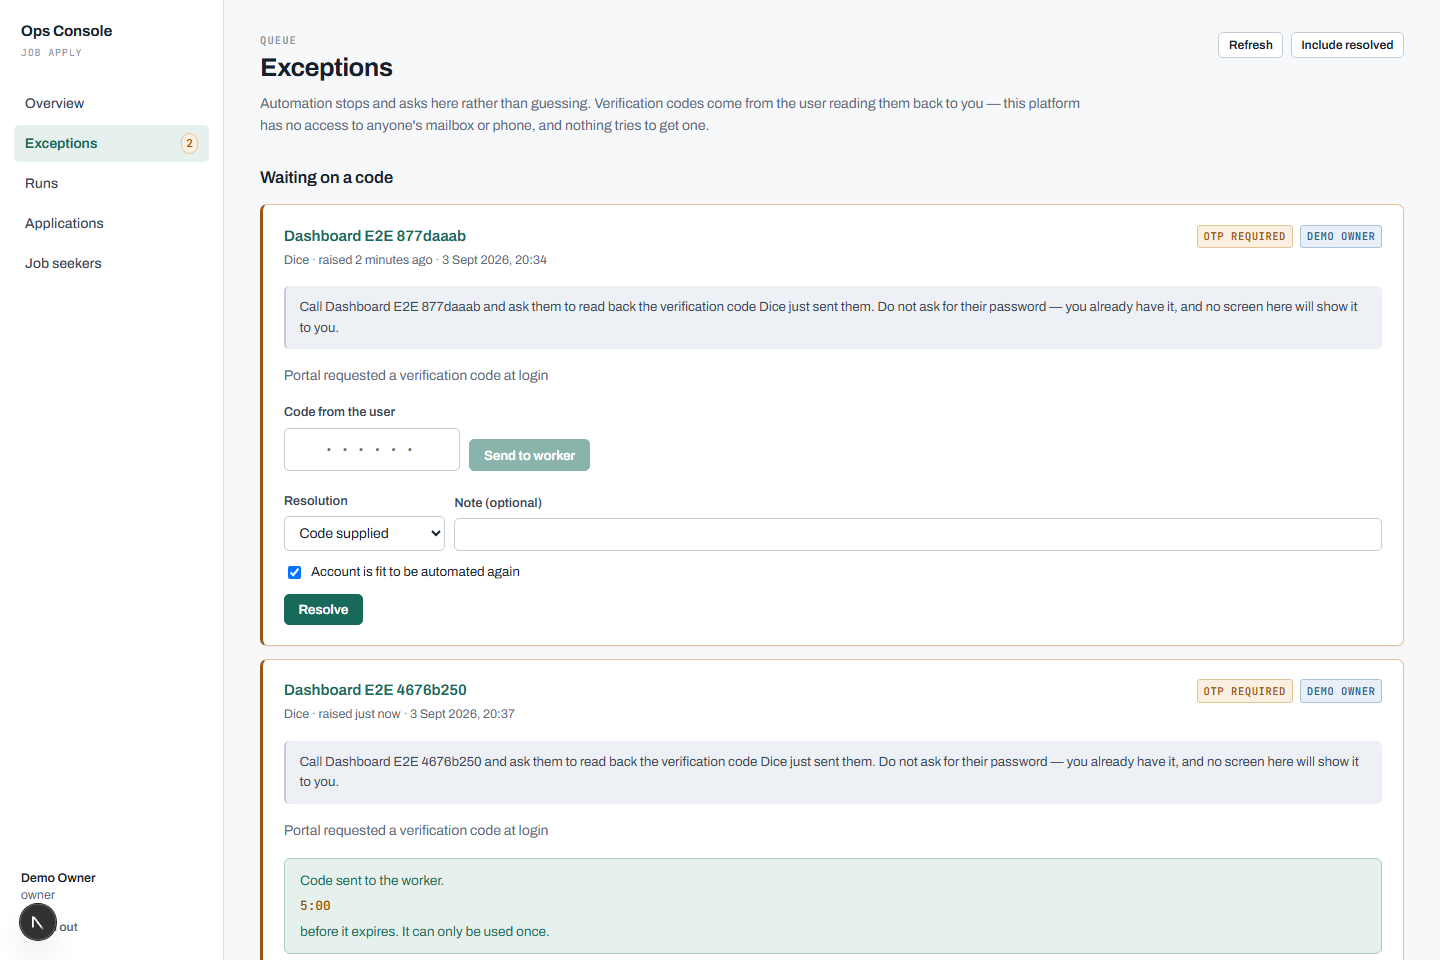
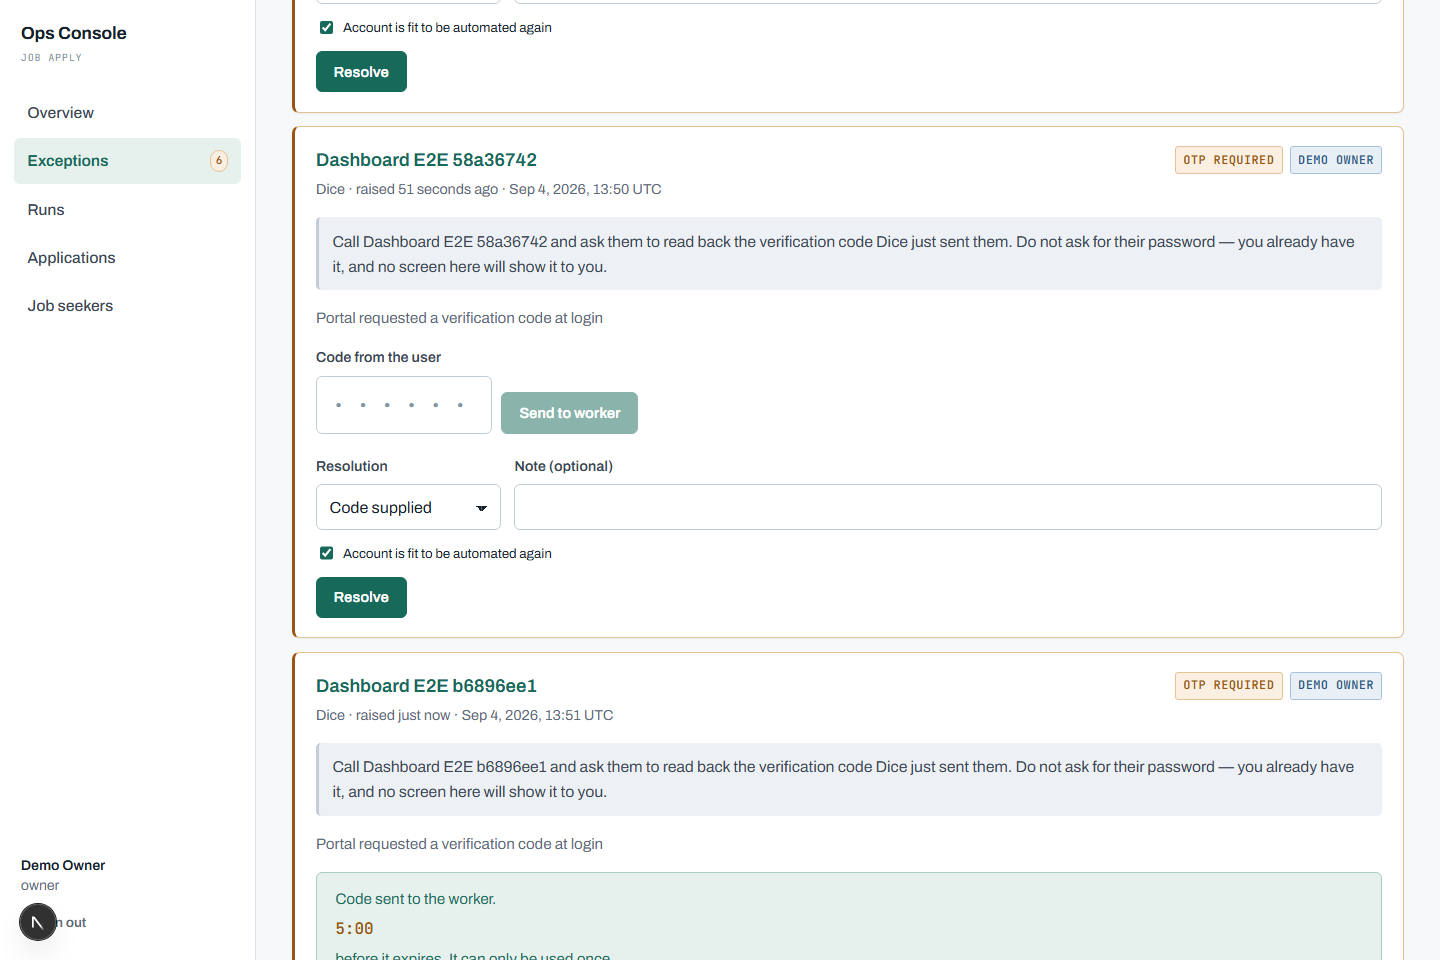
Fix two resume-parser bugs that misread years of experience
Both fed the match score, and both erred in ways that would reject jobs a
candidate is qualified for.

The explicit-claim pattern required the literal words "years of experience", so
"9 years building production APIs" — an ordinary way to open a summary — returned
null and fell through to the date-span fallback. Replaced with an ordered set of
patterns tried by confidence, so phrasings resumes actually use are read, while a
per-skill figure like "3 years of React" still cannot be mistaken for career
length. The ordering is the point: the first tier that matches wins, rather than
scanning for any number that happens to sit near the word "years".

The date-span fallback ignored open-ended ranges. "Acme 2021-present / Globex
2018-2021" spanned only the written years and reported 3 for an 8-year career —
the single most common shape a resume takes. It now recognises "present",
"current", "now" and "to date" and runs the span to today.

Three regression checks pin both, covering six real phrasings, an open-ended range
with no explicit claim anywhere, and the per-skill trap.

Also fixes the cross-service suite's resume fixture, which was a single line and
therefore below the matcher's 200-character floor — it scored every posting zero,
so the suite passed its earlier steps while proving nothing about matching.

Verified: API 13/13 smoke + 24/24 e2e, worker 16/16, dashboard 12/12, intake UI
11/11, cross-service 9/9, matcher 9/9.

diff --git a/scripts/smoke.ts b/scripts/smoke.ts
@@ -258,6 +258,91 @@ check('the worker copy of the matcher has not drifted from the API copy', () => 
   );
 });
 
+
+/**
+ * Years of experience feeds the match score, and both directions of error cost something:
+ * understating drops a strong candidate below the threshold for jobs they are qualified for,
+ * overstating pushes them past "5+ years required" bars they do not meet. These pin the two
+ * shapes that were previously wrong.
+ */
+check('resume parser reads experience from the phrasings resumes actually use', async () => {
+  const { parseResume } = await import('../src/services/resume-parser');
+
+  const cases: { label: string; text: string; expect: number }[] = [
+    { label: 'classic phrasing', text: 'Senior Engineer with 8 years of experience building APIs.', expect: 8 },
+    { label: 'no "of experience"', text: 'Senior Engineer. 9 years building production APIs at scale.', expect: 9 },
+    { label: 'plus and yrs', text: 'Backend engineer, 7+ yrs of professional experience.', expect: 7 },
+    { label: 'labelled field', text: 'Total experience: 11 years across payments and platform teams.', expect: 11 },
+    { label: 'over N years', text: 'Over 6 years working on distributed systems in production.', expect: 6 },
+    { label: 'as a role', text: '12 years as a backend engineer across fintech and retail.', expect: 12 },
+  ];
+
+  for (const c of cases) {
+    const file = path.join(os.tmpdir(), `smoke-years-${Date.now()}-${Math.random()}.txt`);
+    fs.writeFileSync(file, c.text);
+    try {
+      const parsed = await parseResume(file, 'text/plain', []);
+      assert.equal(parsed.yearsExperience, c.expect, `${c.label}: "${c.text}"`);
+    } finally {
+      fs.unlinkSync(file);
+    }
+  }
+});
+
+check('a resume ending in "present" reports career length, not the last closed job', async () => {
+  const { parseResume } = await import('../src/services/resume-parser');
+  const thisYear = new Date().getFullYear();
+  const startedIn = thisYear - 8;
+  const movedIn = thisYear - 5;
+
+  // No explicit "N years" claim anywhere, so this exercises the date-span fallback. The old
+  // implementation spanned only the written years and reported 3 for an 8-year career.
+  const sample = [
+    'Casey Delgado',
+    'casey@example.com',
+    '',
+    'Experience',
+    `Acme Corp | Senior Backend Engineer | ${movedIn} - present`,
+    '  Owned the billing services.',
+    `Globex Inc | Backend Engineer | ${startedIn} - ${movedIn}`,
+    '  Built the reporting API.',
+  ].join('\n');
+
+  const file = path.join(os.tmpdir(), `smoke-present-${Date.now()}.txt`);
+  fs.writeFileSync(file, sample);
+  try {
+    const parsed = await parseResume(file, 'text/plain', []);
+    assert.equal(
+      parsed.yearsExperience,
+      8,
+      `expected the full span to today, got ${parsed.yearsExperience}`,
+    );
+  } finally {
+    fs.unlinkSync(file);
+  }
+});
+
+check('a skill-specific year count is not mistaken for career length', async () => {
+  const { parseResume } = await import('../src/services/resume-parser');
+  // "3 years of React" is about one technology. Reading it as total experience would drop a
+  // senior candidate below every seniority bar they actually clear.
+  const sample = [
+    'Jordan Ellis — Staff Engineer',
+    'Summary',
+    '14 years of professional experience across backend and platform engineering.',
+    'Skills include 3 years of React and 2 years of Go alongside deep Node.js work.',
+  ].join('\n');
+
+  const file = path.join(os.tmpdir(), `smoke-skillyears-${Date.now()}.txt`);
+  fs.writeFileSync(file, sample);
+  try {
+    const parsed = await parseResume(file, 'text/plain', []);
+    assert.equal(parsed.yearsExperience, 14, 'the career claim must win over a per-skill figure');
+  } finally {
+    fs.unlinkSync(file);
+  }
+});
+
 async function main(): Promise<void> {
   let failed = 0;
   for (const { name, run } of checks) {

diff --git a/src/services/resume-parser.ts b/src/services/resume-parser.ts
@@ -123,20 +123,54 @@ function extractEmployers(text: string): string[] {
   return uniqueTrimmed(matches, 20);
 }
 
-/** Best-effort: an explicit "N years of experience" claim, else the span of years mentioned. */
+/**
+ * Years of professional experience.
+ *
+ * This feeds the match score, so both directions of error cost something: understating sends
+ * a strong candidate below the threshold for jobs they are qualified for; overstating pushes
+ * them past "5+ years required" bars they do not meet. The patterns below are therefore
+ * ordered by confidence and the first tier that matches wins, rather than scanning for any
+ * number near the word "years".
+ *
+ * The reason that ordering matters: a resume saying "3 years of React" must not set overall
+ * experience to 3. Only phrasings that are actually *about* career length are considered.
+ */
+const EXPERIENCE_PATTERNS: RegExp[] = [
+  // "9 years of professional experience", "9+ yrs of relevant experience"
+  /(\d{1,2})\s*(?:\+|plus)?\s*(?:years?|yrs?)\s+(?:of\s+)?(?:professional\s+|relevant\s+|industry\s+|overall\s+|total\s+|hands[\s-]?on\s+)?experience/i,
+  // "experience: 9 years", "total experience - 9 years"
+  /experience\s*[:\-–]\s*(\d{1,2})\s*(?:\+|plus)?\s*(?:years?|yrs?)/i,
+  // "over 9 years", "nearly 9 years", "more than 9 years"
+  /(?:over|nearly|almost|more than|around|about)\s+(\d{1,2})\s*(?:\+|plus)?\s*(?:years?|yrs?)/i,
+  // Summary-style claim: "9 years building production APIs", "9+ years as a backend engineer"
+  /(\d{1,2})\s*(?:\+|plus)?\s*(?:years?|yrs?)\s+(?:building|developing|designing|working|leading|delivering|as\s+a|in\s+)/i,
+];
+
+/** Employment ranges that run to today: "2018 - present", "2018 to current". */
+const OPEN_ENDED_RANGE = /\b(19[89]\d|20[0-4]\d)\s*(?:-|–|—|to)\s*(?:present|current|now|today|date)\b/i;
+
 function extractYearsExperience(text: string): number | null {
-  const explicit = text.match(/(\d{1,2})(?:\+|\s*plus)?\s*(?:\+\s*)?years?\s+(?:of\s+)?experience/i);
-  if (explicit?.[1]) {
-    const years = Number(explicit[1]);
-    if (years > 0 && years < 60) return years;
+  for (const pattern of EXPERIENCE_PATTERNS) {
+    const match = text.match(pattern);
+    if (match?.[1]) {
+      const years = Number(match[1]);
+      if (years > 0 && years < 60) return years;
+    }
   }
 
+  const thisYear = new Date().getFullYear();
   const years = Array.from(text.matchAll(/\b(19[89]\d|20[0-4]\d)\b/g))
     .map((m) => Number(m[1]))
-    .filter((y) => y >= 1980 && y <= new Date().getFullYear());
-  if (years.length < 2) return null;
+    .filter((y) => y >= 1980 && y <= thisYear);
+  if (!years.length) return null;
 
-  const span = Math.max(...years) - Math.min(...years);
+  // An open-ended range means the career runs to today. Without this, "Acme 2021-present /
+  // Globex 2018-2021" spans 2018..2021 and reports 3 years for someone with 8 — the single
+  // most common shape a résumé takes, and the bug this replaced.
+  const endsToday = OPEN_ENDED_RANGE.test(text);
+  const latest = endsToday ? thisYear : Math.max(...years);
+  const span = latest - Math.min(...years);
+
   return span > 0 && span < 60 ? span : null;
 }
 

diff --git a/worker/src/mock/dashboard-e2e.ts b/worker/src/mock/dashboard-e2e.ts
@@ -77,7 +77,7 @@ step('provision a job seeker ready to be automated', async () => {
     city: 'Austin',
     timezone: 'UTC',
     targetDesignations: ['Senior Backend Engineer'],
-    keySkills: ['Node.js'],
+    keySkills: ['Node.js', 'TypeScript', 'MySQL', 'Redis', 'Docker', 'Kubernetes', 'AWS', 'GraphQL'],
     intakeChannel: 'whatsapp',
     dailyApplicationCap: 2,
     minMinutesBetweenApplications: 0,
@@ -102,8 +102,31 @@ step('provision a job seeker ready to be automated', async () => {
   });
   assert.equal(connection.status, 201, JSON.stringify(connection.body));
 
+  // Substantial on purpose: the matcher refuses to score a document under 200 characters, so
+  // a one-line stub would score every posting zero and this suite would prove nothing beyond
+  // "the worker started".
+  const resumeText = [
+    'Dashboard E2E Seeker — Senior Backend Engineer, Austin TX',
+    'Summary',
+    'Senior Backend Engineer with 9 years of experience building and operating production',
+    'APIs and distributed services on AWS. Deep experience with Node.js and TypeScript,',
+    'relational data modelling in MySQL, caching with Redis, and containerised deployment',
+    'with Docker and Kubernetes.',
+    '',
+    'Experience',
+    'Acme Corp — Senior Backend Engineer',
+    '  Owned billing and entitlements services in Node.js and TypeScript. Designed the',
+    '  MySQL schema, operated services on Kubernetes in AWS, and built REST and GraphQL',
+    '  APIs for web and mobile clients. Mentored engineers and led design for',
+    '  distributed systems and microservices.',
+    '',
+    'Skills',
+    'Node.js, TypeScript, JavaScript, MySQL, Redis, Docker, Kubernetes, AWS, REST,',
+    'GraphQL, CI/CD, microservices, distributed systems',
+  ].join('\n');
+
   const resume = new FormData();
-  resume.append('resume', new Blob(['Senior Backend Engineer\nNode.js, MySQL'], { type: 'text/plain' }), 'r.txt');
+  resume.append('resume', new Blob([resumeText], { type: 'text/plain' }), 'r.txt');
   resume.append('isPrimary', 'true');
   const uploaded = await call('POST', `/users/${state.userId}/resumes`, resume);
   assert.equal(uploaded.status, 201, JSON.stringify(uploaded.body));
